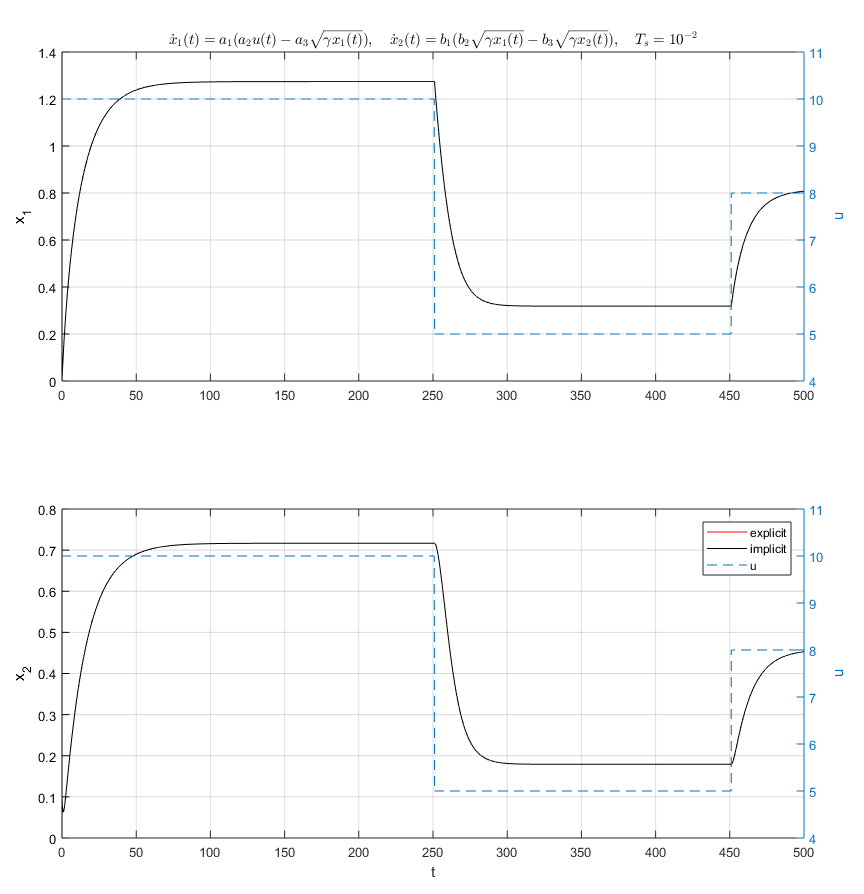
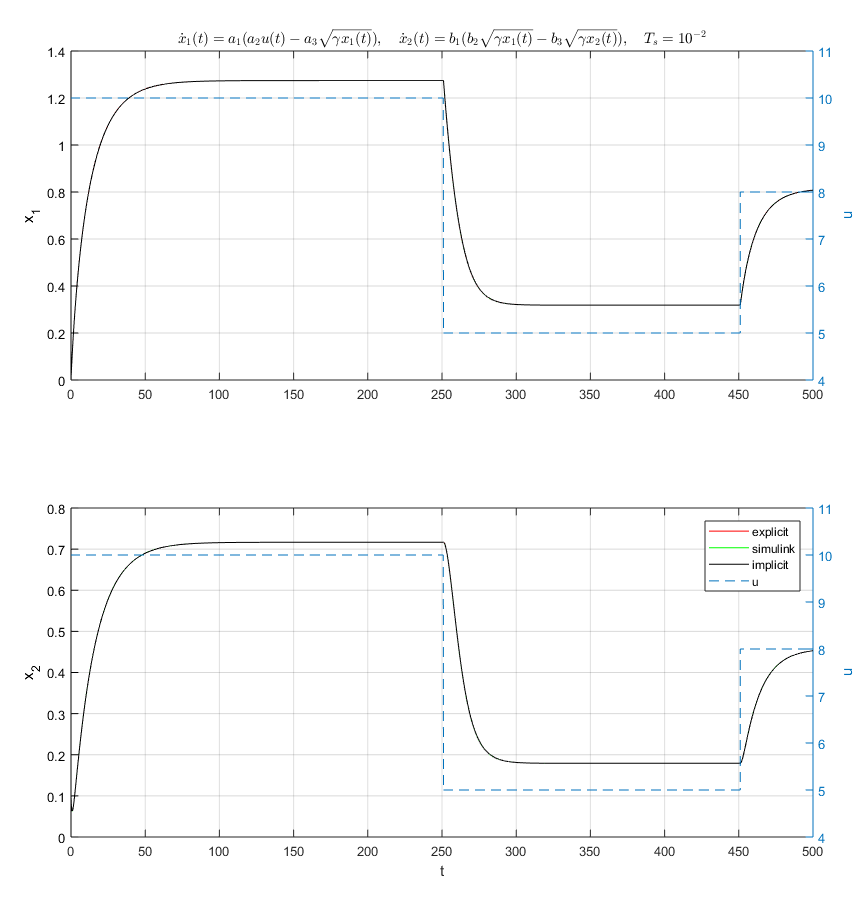
fixed error in simulink model

diff --git a/test/plot_test.m b/test/plot_test.m
@@ -28,6 +28,7 @@ subplot(2,1,1);
 subplot(2,1,2);
   plot(eulere(:,1), eulere(:,4), 'r-', 'displayname', 'explicit');
   hold on;
+  plot(eulerm(:,1), eulerm(:,4), 'g-', 'displayname', 'simulink');
   plot(euleri(:,1), euleri(:,4), 'k-', 'displayname', 'implicit');
   ylabel('x_2');
   yyaxis right;
@@ -62,6 +63,7 @@ subplot(2,1,2);
   plot(eulere(:,1), eulere(:,2), '--', 'displayname', 'u');
   ylabel('u');
   ylim([4,11]);
+  xlabel('t');  
   grid on;
-  
+
   
